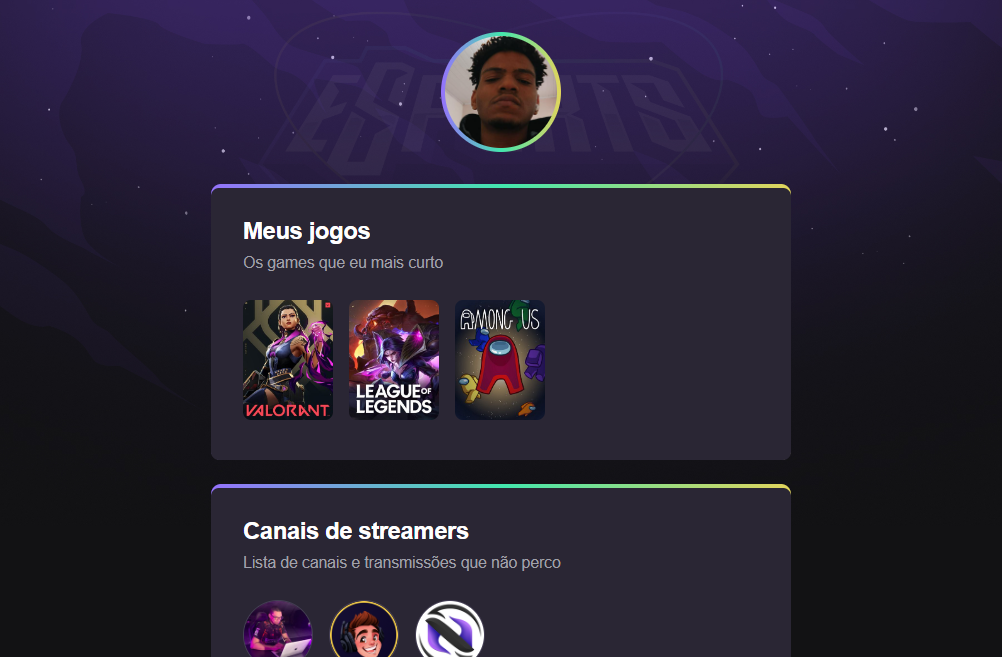
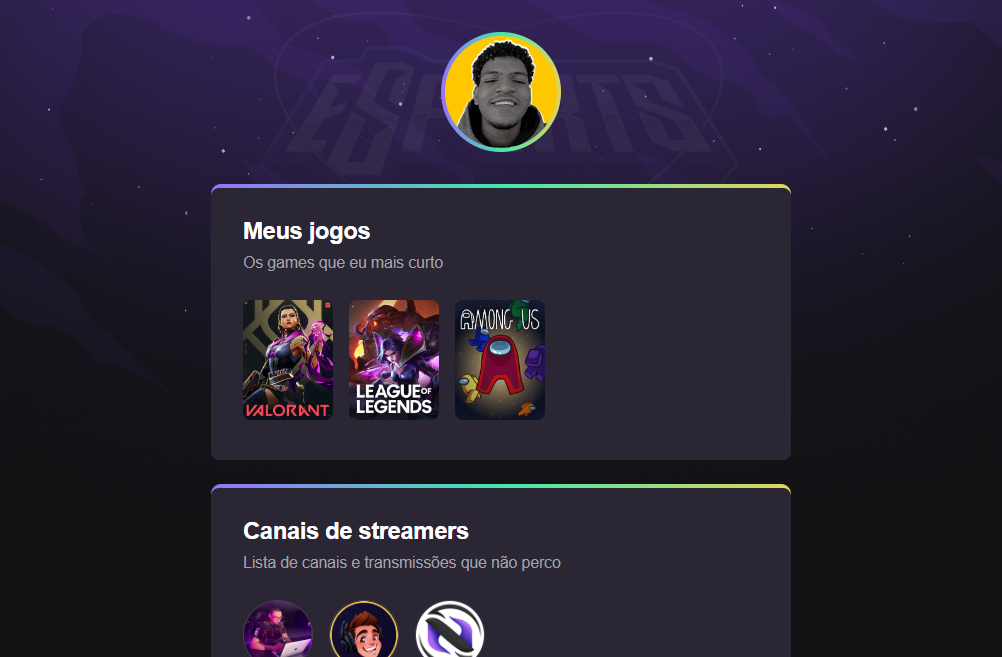
mudar perfil

Changed region(s): [[0.4331, 0.0304, 0.5569, 0.2435]]

diff --git a/README.md b/README.md
@@ -7,7 +7,7 @@ Projeto construido no evento Next Level Week da Rockets
 
 [Clique aqui para acessar](https://heitorbbtc.github.io/nlw/)
 
-## 🛠 happy Tecnologias 
+## 🛠 Tecnologias 
 
 -HTML
 -CSS
